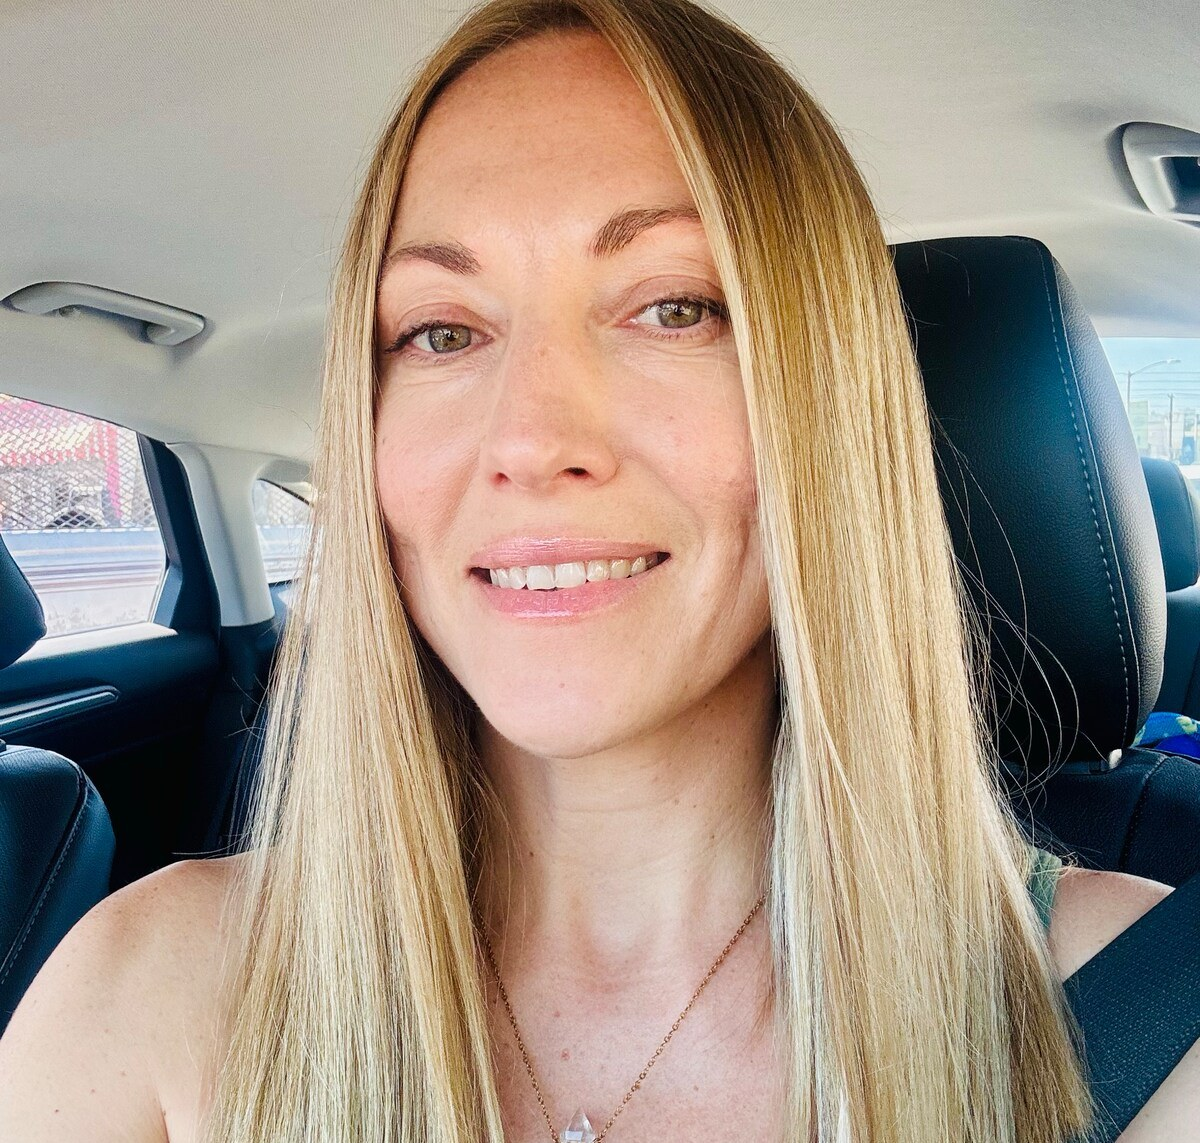
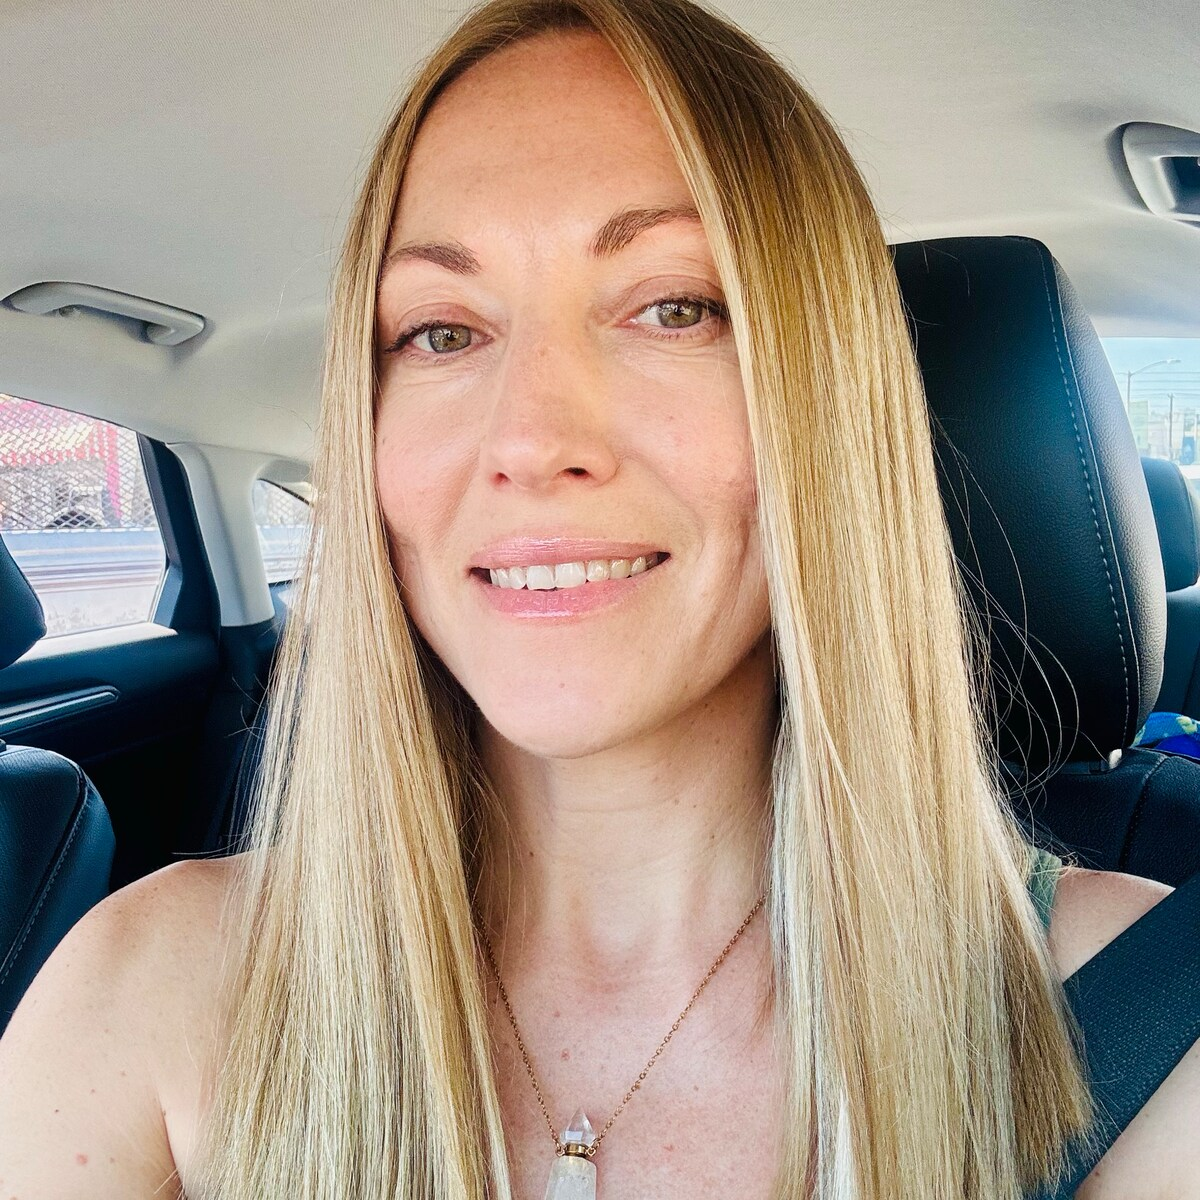
Host photo in arch; backyard + pool lifestyle photos; Om 2 centered; Chic more art
Claude-Session: https://claude.ai/code/session_012xw2xExUBmuc9fQH3uMMqH

diff --git a/index.html b/index.html
@@ -513,6 +513,7 @@ window.__PHOTOS__ = {
 
 /* Local design images are injected here as base64 at build time. */
 var IMG = window.__IMG__ || {};
+IMG.life1='images/life1.jpg?v=1'; IMG.life2='images/life2.jpg?v=1';
 
 var ICONS = {
   sofa:'<svg width="18" height="18" viewBox="0 0 24 24" fill="none" stroke="currentColor" stroke-width="1.5" stroke-linecap="round"><path d="M4 11V8a2 2 0 0 1 2-2h12a2 2 0 0 1 2 2v3"/><path d="M3 11a2 2 0 0 1 2 2v3h14v-3a2 2 0 0 1 2-2"/><path d="M5 16v2M19 16v2"/></svg>',
@@ -672,7 +673,7 @@ var PHOTOS = (typeof window!=='undefined' && window.__PHOTOS__) || {};
 LISTINGS.forEach(function(l){
   if(PHOTOS[l.id] && PHOTOS[l.id].length) l.images = PHOTOS[l.id].slice();
   l.images = l.images.map(function(u){ return u.split('?')[0]; });
-  l.card = 'images/cards/'+l.id+'.jpg?v=11';
+  l.card = 'images/cards/'+l.id+'.jpg?v=12';
 });
 function pic(u,w){ return u + '?im_w=' + w; }
 
@@ -888,7 +889,7 @@ function viewHome(){
     '</div></section>' +
 
   '<section><div class="wrap gHost" style="padding-top:80px;padding-bottom:80px;display:grid;grid-template-columns:1fr 1.2fr;gap:60px;align-items:center">' +
-    '<div style="aspect-ratio:1.05;border-radius:20px;overflow:hidden"><img src="images/host.jpg?v=1" alt="Sofia, your ARTBNB host" loading="lazy" style="width:100%;height:100%;object-fit:cover"></div>' +
+    '<div class="arch" style="aspect-ratio:0.8;width:100%;max-width:330px;justify-self:center"><img src="images/host.jpg?v=2" alt="Sofia, your ARTBNB host" loading="lazy" style="width:100%;height:100%;object-fit:cover"></div>' +
     '<div><div class="kick" style="margin-bottom:14px">MEET YOUR HOST</div>' +
     '<h2 style="font-family:var(--font-head),serif;font-weight:400;font-size:27px;line-height:1.25;margin:0 0 16px">Hosted by Sofia — a Superhost for 10 years.</h2>' +
     '<p style="font-size:14px;color:#6E6266;max-width:460px;margin:0 0 22px">ARTbnb is my passion — beautiful, unique places to stay on a budget, cleaned to the "Sofia Standard" and professionally managed from booking to checkout.</p>' +
